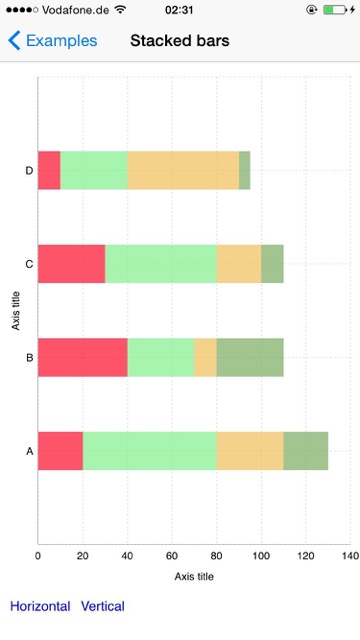
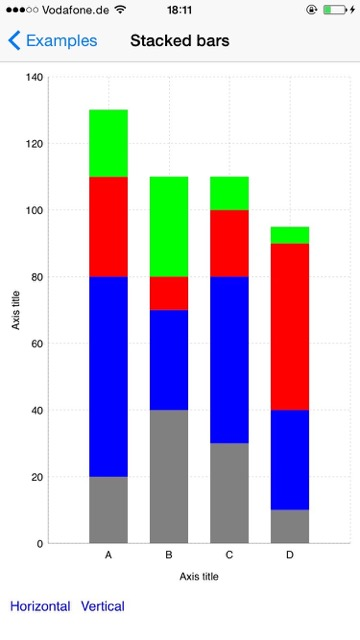
Remove random colors, smaller bars

diff --git a/Examples/Examples/Examples/NotNumericExample.swift b/Examples/Examples/Examples/NotNumericExample.swift
@@ -52,17 +52,15 @@ class NotNumericExample: UIViewController {
         let coordsSpace = ChartCoordsSpaceLeftBottomSingleAxis(chartSettings: ExamplesDefaults.chartSettings, chartFrame: chartFrame, xModel: xModel, yModel: yModel)
         let (xAxis, yAxis, innerFrame) = (coordsSpace.xAxis, coordsSpace.yAxis, coordsSpace.chartInnerFrame)
         
-        let minBarSpacing: CGFloat = ExamplesDefaults.minBarSpacing
+        let minBarSpacing: CGFloat = ExamplesDefaults.minBarSpacing + 16
 
         let generator = {(chartPointModel: ChartPointLayerModel, layer: ChartPointsLayer, chart: Chart) -> UIView? in
-            let r = {CGFloat(Float(arc4random()) / Float(UINT32_MAX))}
-            let randomColor: UIColor = UIColor(red: r(), green: r(), blue: r(), alpha: 0.8)
             let bottomLeft = CGPointMake(layer.innerFrame.origin.x, layer.innerFrame.origin.y + layer.innerFrame.height)
             
             let barWidth = layer.minXScreenSpace - minBarSpacing
             
             let (p1: CGPoint, p2: CGPoint) = (CGPointMake(chartPointModel.screenLoc.x, bottomLeft.y), CGPointMake(chartPointModel.screenLoc.x, chartPointModel.screenLoc.y))
-            return ChartPointViewBar(p1: p1, p2: p2, width: barWidth, bgColor: randomColor)
+            return ChartPointViewBar(p1: p1, p2: p2, width: barWidth, bgColor: UIColor.blueColor())
         }
         
         let chartPointsLayer = ChartPointsViewsLayer(axisX: xAxis, axisY: yAxis, innerFrame: innerFrame, chartPoints: chartPoints, viewGenerator: generator)

diff --git a/Examples/Examples/Examples/StackedBarsExample.swift b/Examples/Examples/Examples/StackedBarsExample.swift
@@ -17,15 +17,10 @@ class StackedBarsExample: UIViewController {
     private func chart(#horizontal: Bool) -> Chart {
         let labelSettings = ChartLabelSettings(font: ExamplesDefaults.labelFont)
         
-        func randomColor() -> UIColor {
-            let r = {CGFloat(Float(arc4random()) / Float(UINT32_MAX))}
-            return UIColor(red: r(), green: r(), blue: r(), alpha: 0.7)
-        }
-        
-        let color0 = randomColor()
-        let color1 = randomColor()
-        let color2 = randomColor()
-        let color3 = randomColor()
+        let color0 = UIColor.grayColor()
+        let color1 = UIColor.blueColor()
+        let color2 = UIColor.redColor()
+        let color3 = UIColor.greenColor()
         
         let barModels = [
             ChartStackedBarModel(constantAxisValue: ChartAxisValueString("A", order: 1, labelSettings: labelSettings), items: [
